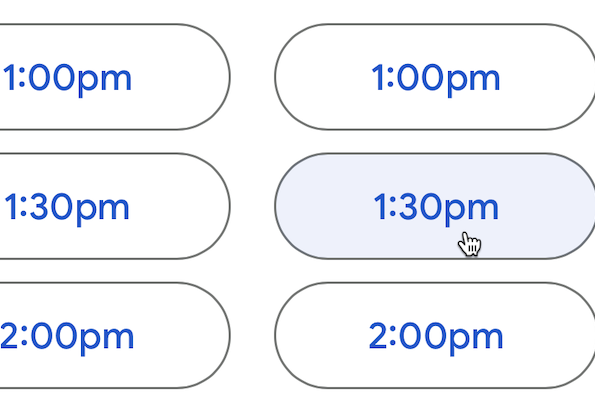
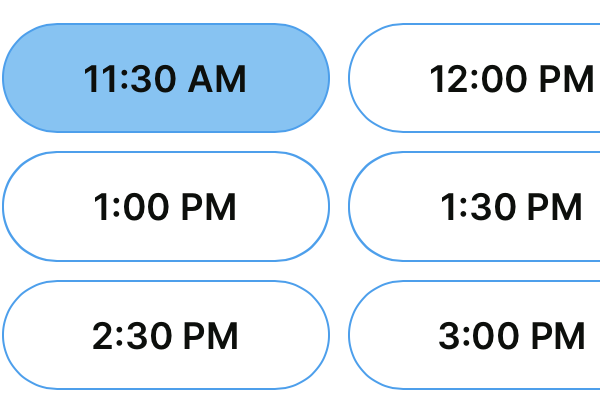
revised calendar

diff --git a/_portfolio/04contact.md b/_portfolio/04contact.md
@@ -3,12 +3,10 @@ title: "Contact & Calendar"
 permalink: /contact/
 date: 2025-12-04
 # reminder: chronological layout
-excerpt: "Email me or schedule a free 30-minute Zoom appointment"
+excerpt: "Email me or schedule a free 30-minute Zoom meeting"
 header:
-  teaser: images/portfolio/calendar-600x400.png
+  teaser: images/portfolio/calendar-300x200.png
 ---
-[Email me](mailto:jack@jackdougherty.org) or schedule a free 30-minute Zoom appointment [on my calendar](https://calendar.app.google/7qhDNHbSUGtthSak6)
+[Email me](mailto:jack@jackdougherty.org) or schedule a free 30-minute Zoom meeting [on my calendar](https://jackdougherty.youcanbook.me/)
 
-<!-- Google Calendar Appointment Scheduling begin -->
-<iframe src="https://calendar.google.com/calendar/appointments/schedules/AcZssZ39acXo26EnNNEOLLp-9ZMJ8ObeqePMhqRW5GbTQUS4XJ2I-UVK915Y6X4ngnw0W1OwSzkd_udb?gv=true" style="border: 0" width="100%" height="600" frameborder="0"></iframe>
-<!-- end Google Calendar Appointment Scheduling -->
+<script src="https://embed.ycb.me"	async="true"	data-domain="jackdougherty"	data-displaymode="auto"></script>
